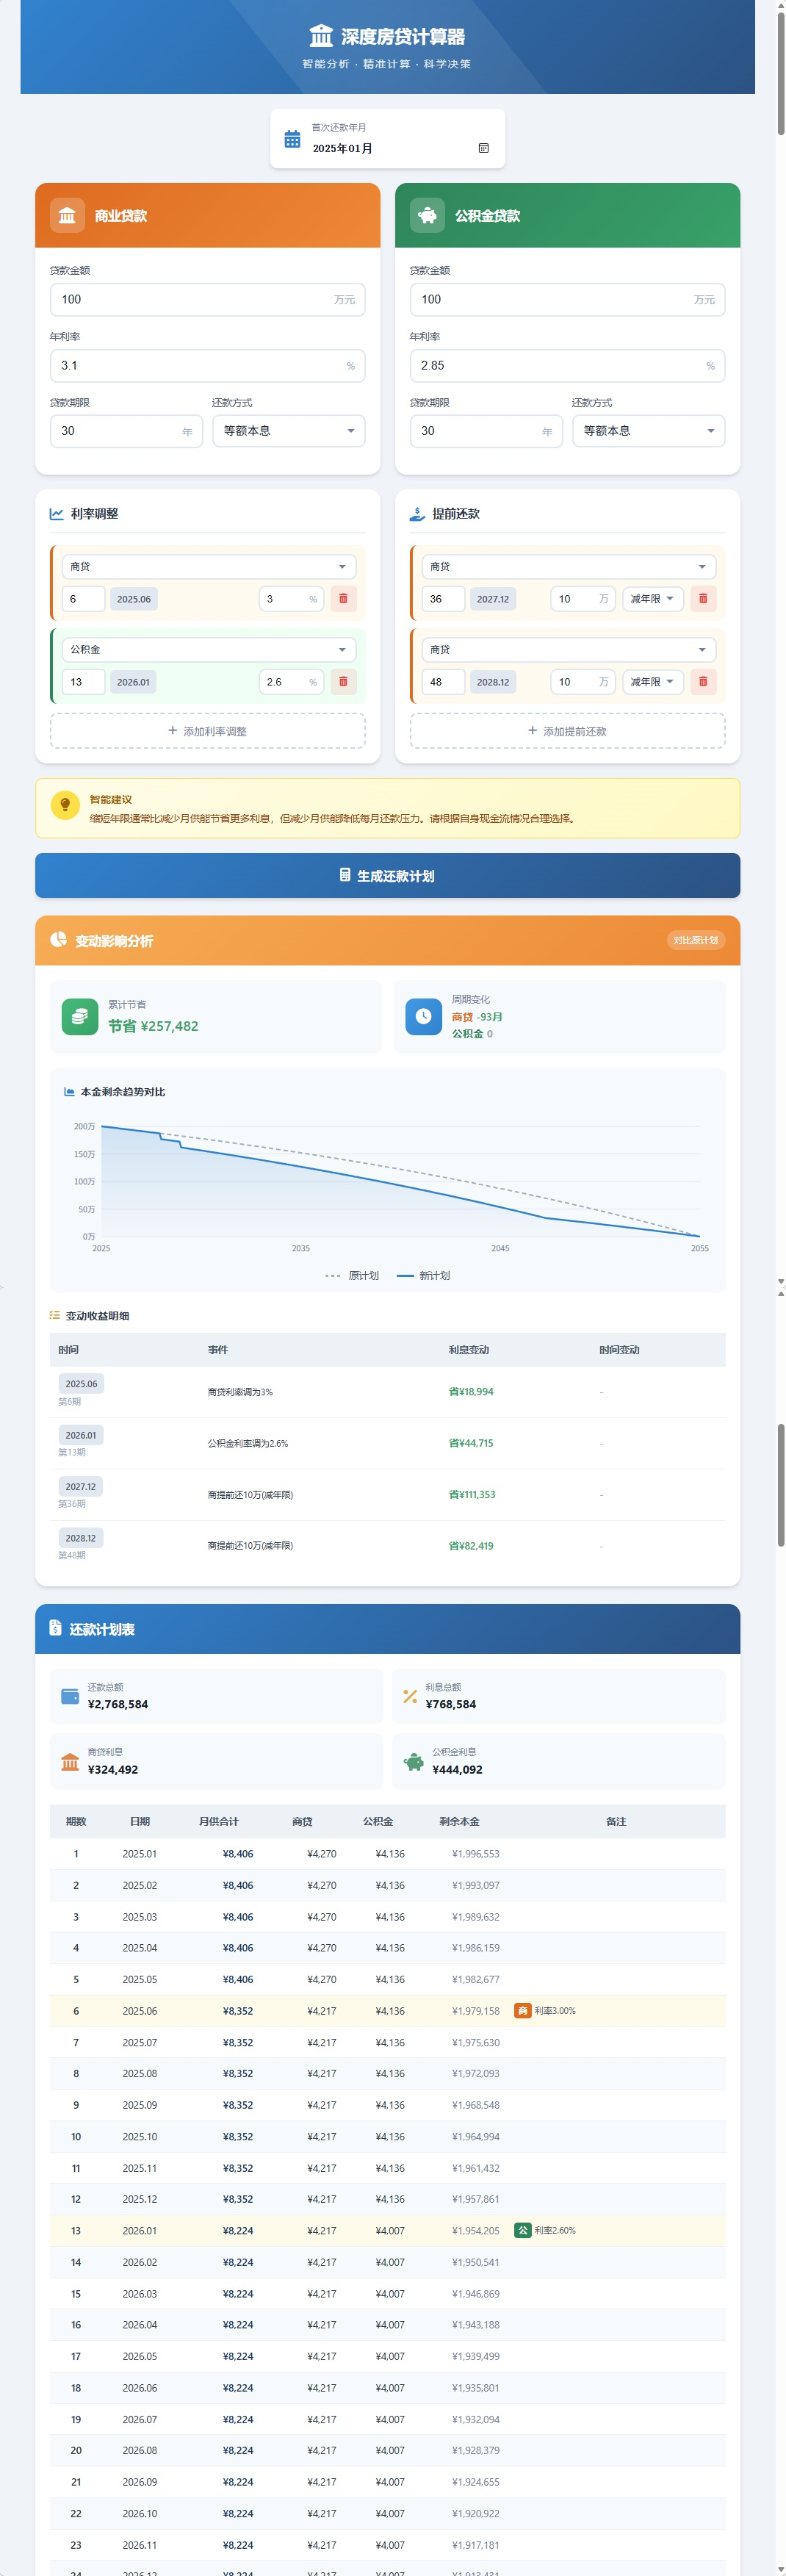
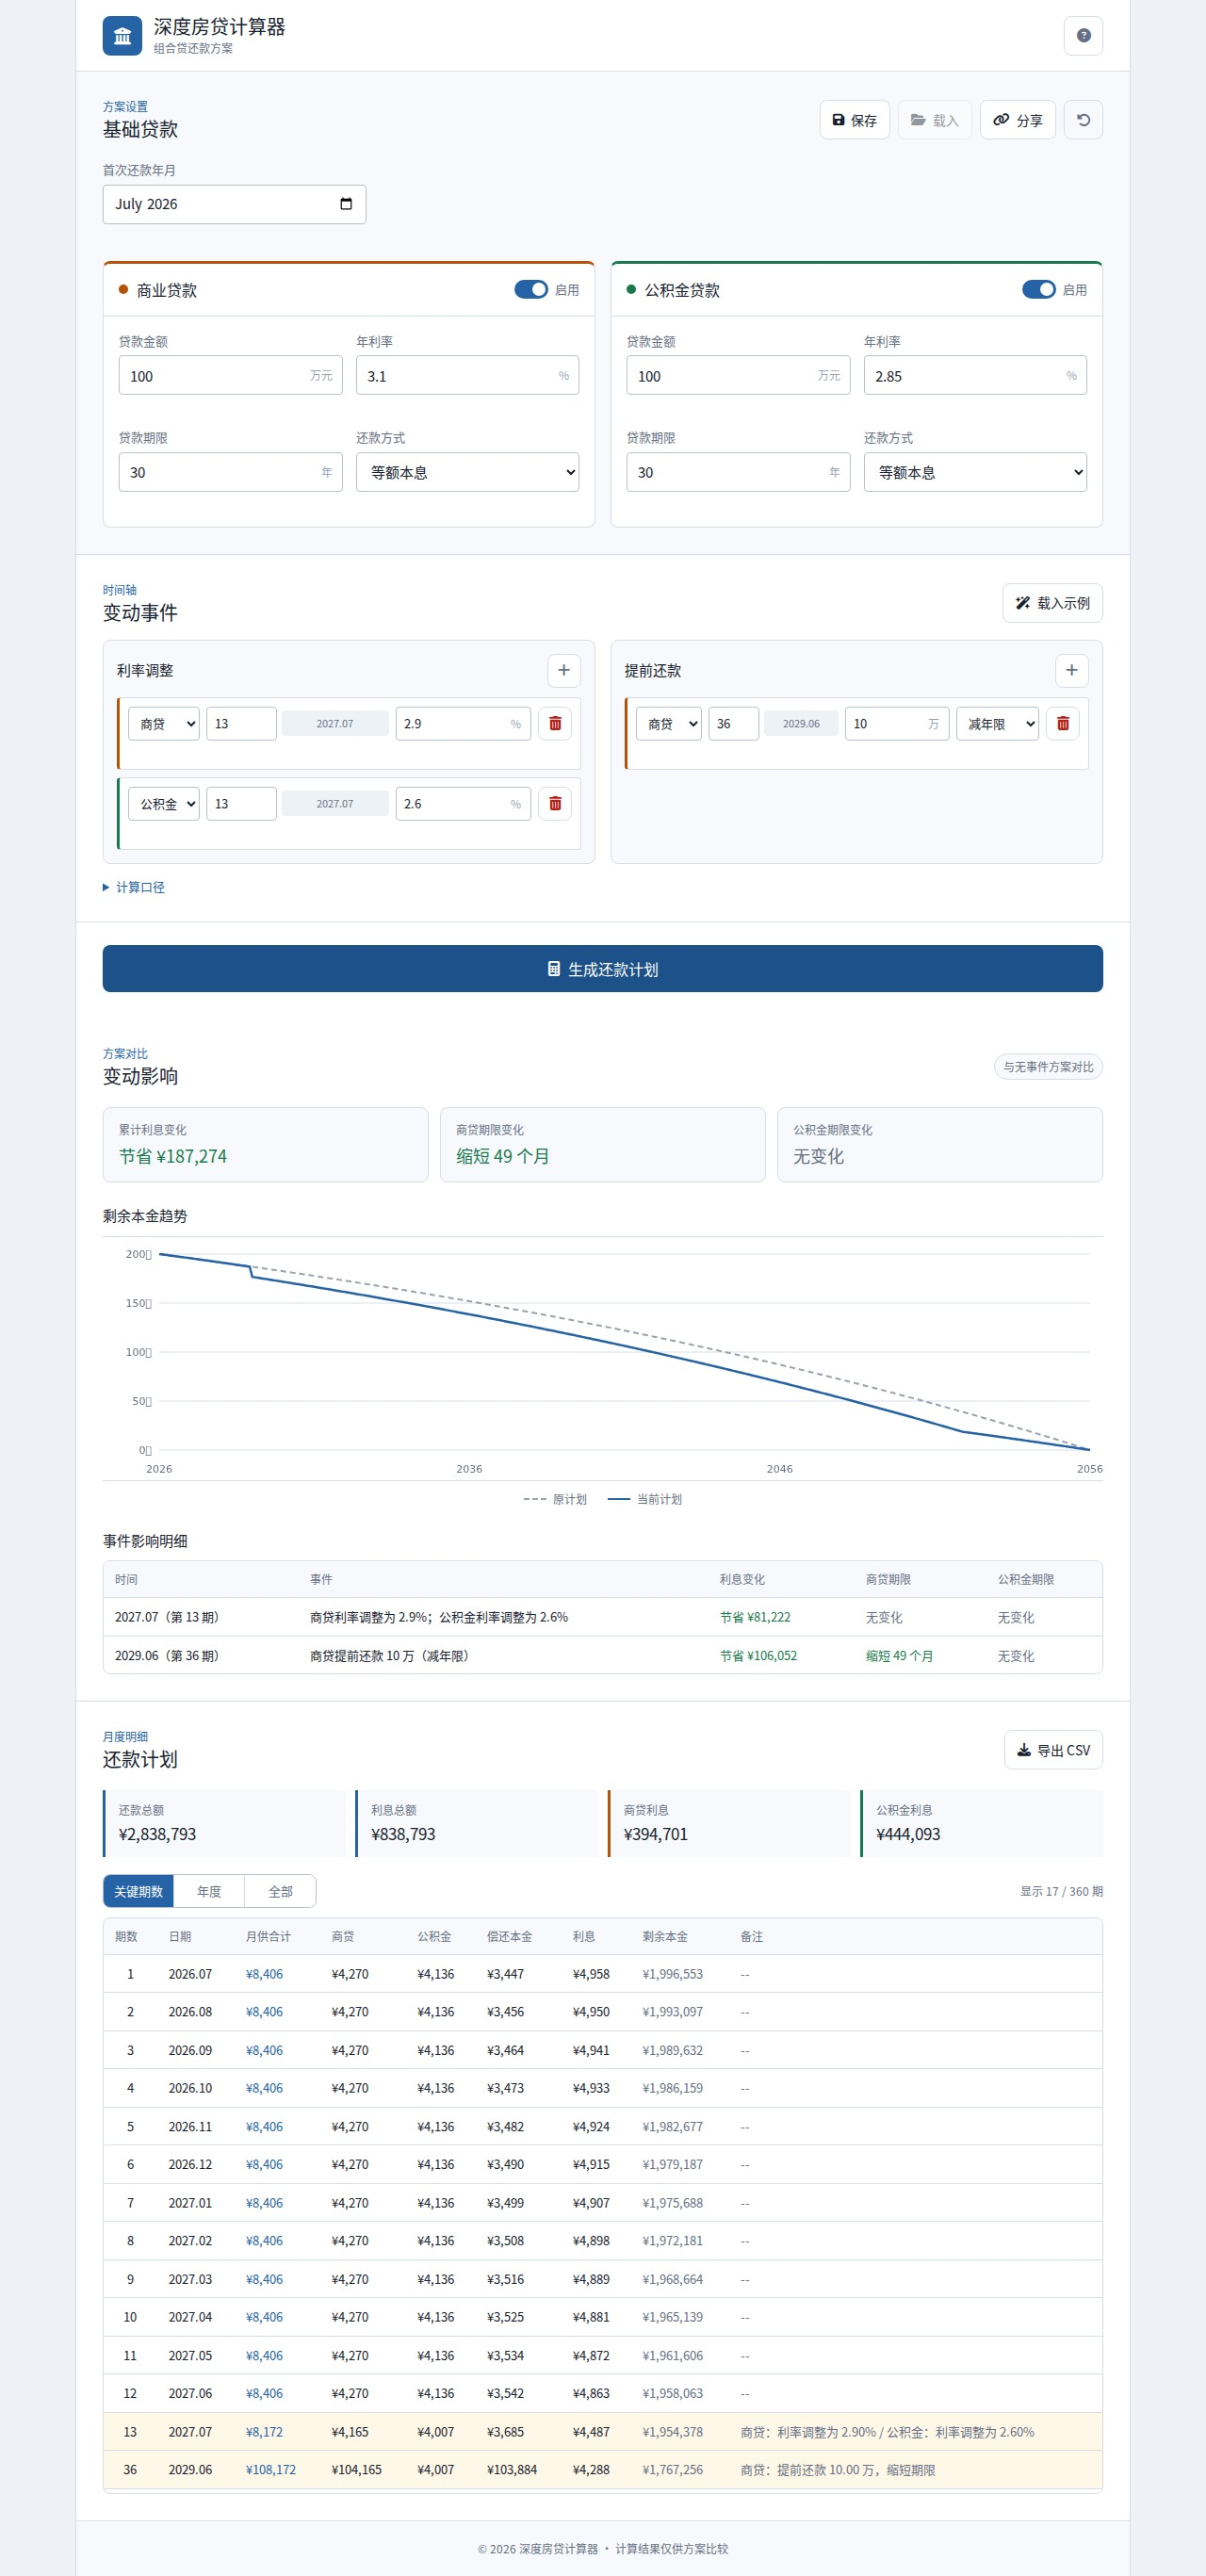
docs: update interface screenshot

diff --git a/README.md b/README.md
@@ -4,6 +4,10 @@
   <p><a href="https://SeanWong17.github.io/Deep-Mortgage-Calculator/">在线使用</a></p>
 </div>
 
+## 页面预览
+
+![深度房贷计算器页面预览](example.jpg)
+
 ## 功能
 
 - 商业贷款和公积金贷款可分别启用并设置金额、利率、期限及还款方式